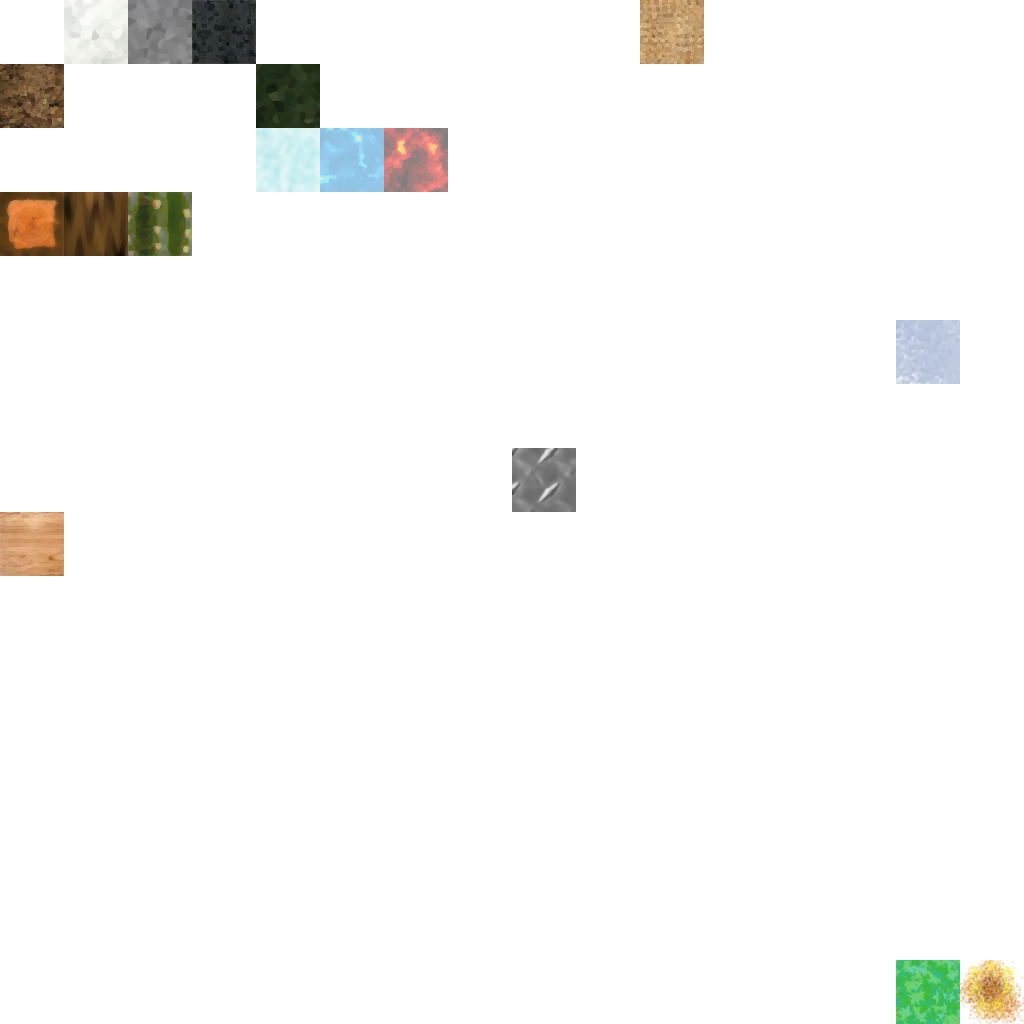
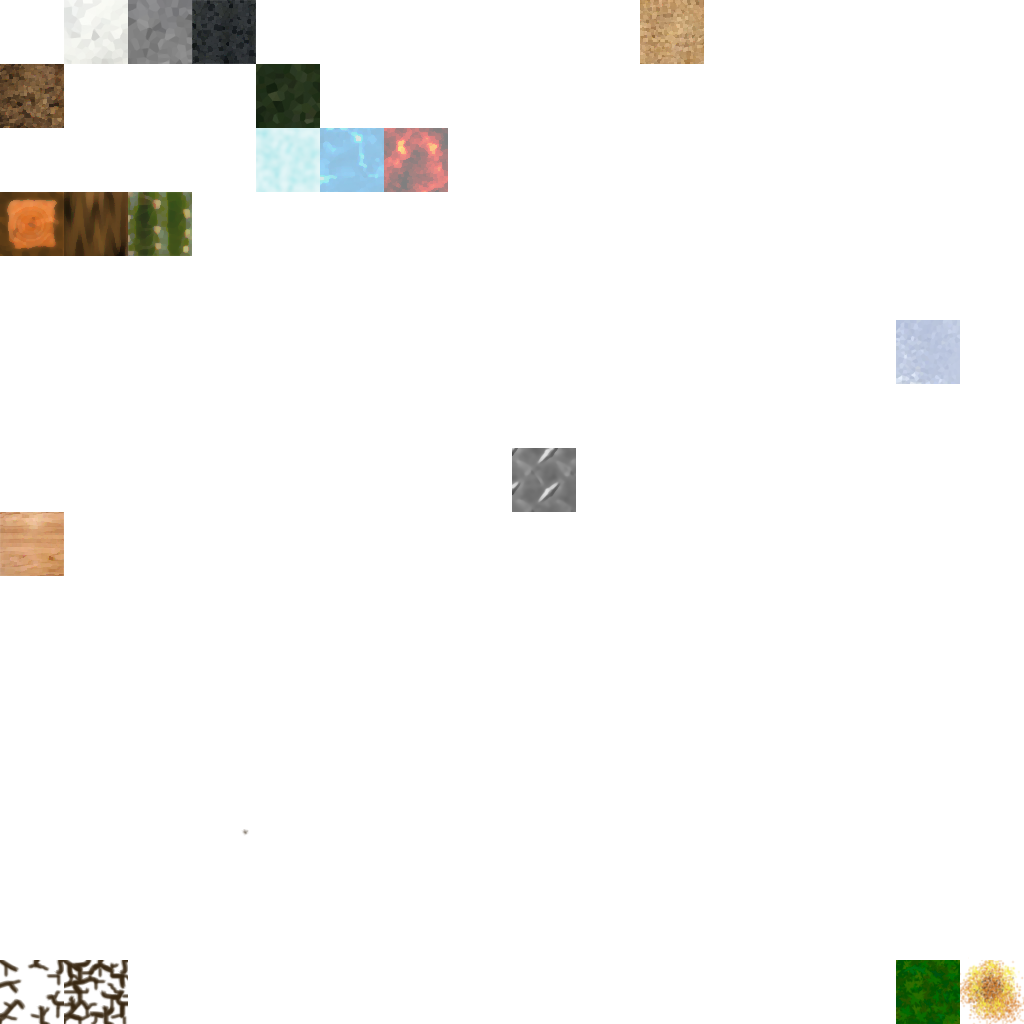
added crack to the game (and maybe a tiny bit of weed)

Changed region(s): [[0.0, 0.9375, 0.125, 1.0], [0.875, 0.9375, 0.9375, 1.0]]

diff --git a/Bawk/game.cpp b/Bawk/game.cpp
@@ -239,7 +239,7 @@ void Game::frame(int ms) {
                 mount->block_keyboard_callback(this, do_this, mount, ms);
             }
             else {
-                float speed = player->weight * convert_milli_to_sec(ms);
+                float speed = player->weight * 3.0f * convert_milli_to_sec(ms);
                 switch (do_this) {
                     case MOVE_UP:
                         player->move_up_flat(speed);
@@ -269,7 +269,7 @@ void Game::frame(int ms) {
     
     for (auto &key: mouse_toggled) {
         if (key.second) {
-            Action do_this = key_to_action[key.first];
+            Action do_this = mouse_to_action[key.first];
             SuperObject* mount = player->get_mount();
             if (mount) {
                 if (mount->block_keyboard_callback(this, do_this, mount, ms)) {
@@ -480,7 +480,7 @@ void Game::mouse_move_callback(double xdiff, double ydiff) {
 void Game::mouse_button_callback(int button, int action, int mods) {
     if (action == SDL_MOUSEBUTTONDOWN) {
         Action do_this = mouse_to_action[button];
-        mouse_toggled[do_this] = true;
+        mouse_toggled[button] = true;
         
         if (in_game) {
             if (BlockTracing::show_item) {
@@ -506,7 +506,7 @@ void Game::mouse_button_callback(int button, int action, int mods) {
     }
     else if (action == SDL_MOUSEBUTTONUP) {
         Action do_this = mouse_to_action[button];
-        mouse_toggled[do_this] = false;
+        mouse_toggled[button] = false;
     }
 }
 

diff --git a/Bawk/superobjectrender.cpp b/Bawk/superobjectrender.cpp
@@ -331,6 +331,10 @@ Entity* RenderableSuperObject::poke(float x, float y, float z) {
     return 0;
 }
 
+int get_breaking_stage(int life) {
+    return life * BREAKING_STAGES / MAX_HEALTH;
+}
+
 bool RenderableSuperObject::get_hurt(float x, float y, float z, float dmg, BreakablePolicy policy, uint32_t pid) {
     if (!can_be_hurt(policy, pid)) {
         return false;
@@ -340,12 +344,22 @@ bool RenderableSuperObject::get_hurt(float x, float y, float z, float dmg, Break
     if (blk) {
         int resistance = get_block_resistance(blk->type);
         int actual_dmg = (int)calculate_damage(dmg, resistance);
+        int first_stage = get_breaking_stage(blk->life);
         blk->life += actual_dmg;
         if (blk->life >= MAX_HEALTH) {
             blk->life = MAX_HEALTH;
             if (can_be_destroyed(policy, pid)) {
                 set_block(x, y, z, block_type());
             }
+        }
+        if (get_breaking_stage(blk->life) != first_stage) {
+            // first transform to OAC
+            fvec3 oac;
+            transform_into_my_coordinates(&oac, x, y, z);
+            // now transform into cac, crc
+            ivec3 cac, crc;
+            transform_into_chunk_bounds(&cac, &crc, oac.x, oac.y, oac.z);
+            chunks[cac]->changed = true;
         }
     }
     return true;

diff --git a/Bawk/blockrender.cpp b/Bawk/blockrender.cpp
@@ -32,7 +32,15 @@ void set_coord_and_texture(GLbyte coord[][3],
         flags += 0x1;
     }
     if (face == block.orientation) {
-        flags += 0x2;
+        //flags += 0x2;
+    }
+    if (block.life > MAX_HEALTH / BREAKING_STAGES) {
+        if (block.life > MAX_HEALTH * (BREAKING_STAGES - 1) / BREAKING_STAGES) {
+            flags += 0x4;
+        }
+        else {
+            flags += 0x2;
+        }
     }
     texture[index][2] = flags;
 }

diff --git a/Bawk/settings.h b/Bawk/settings.h
@@ -30,9 +30,13 @@
 #define CY 16
 #define CZ 16
 
+#define MAX_HEALTH 1024
+
 const unsigned int TILES_PER_TEXTURE = 16;
 
 const int CHUNK_RENDER_DIST = 5;
+
+const int BREAKING_STAGES = 3;
 
 const std::string EXAMPLE_CONSTANT = "this is a sample constant!";
 

diff --git a/Bawk/modelactionshoot.cpp b/Bawk/modelactionshoot.cpp
@@ -28,7 +28,7 @@ ModelShootActionMultiplexer::ModelShootActionMultiplexer() {
     // write constructor here
     projectile_id = 0;
     firing_speed = 5.0f;
-    firerate = 30;
+    firerate = 1000;
     
     time_elapsed = 0;
 }

diff --git a/Bawk/entity.h b/Bawk/entity.h
@@ -23,8 +23,6 @@
 #ifndef __Bawk__entity__
 #define __Bawk__entity__
 
-#define MAX_HEALTH 1024
-
 #include <stdio.h>
 #include <string>
 #include "basic_types.h"
